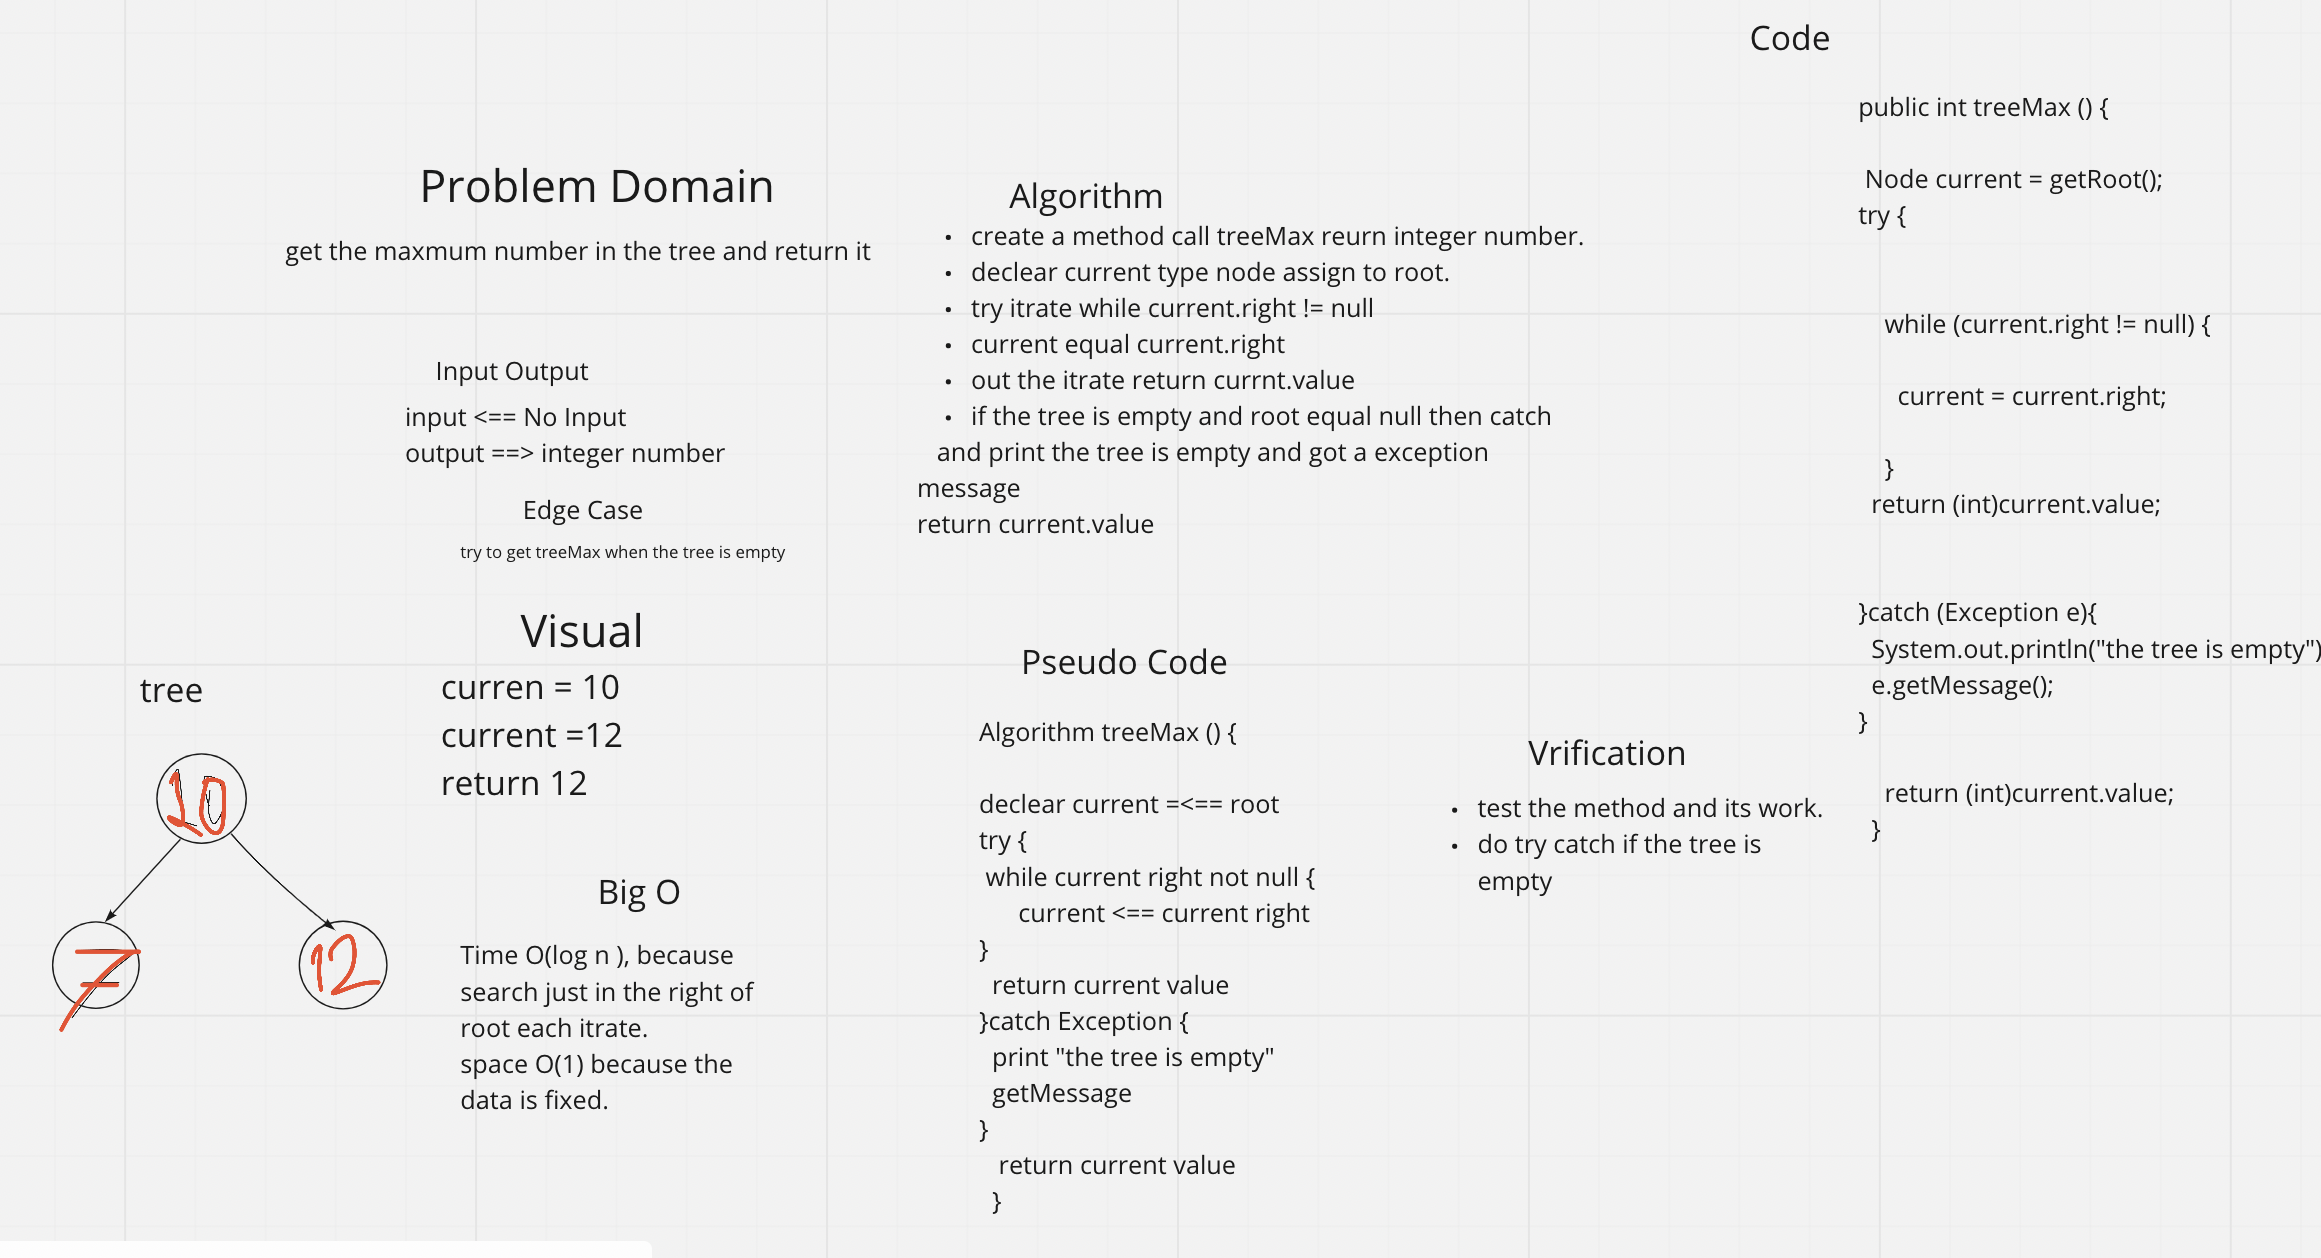
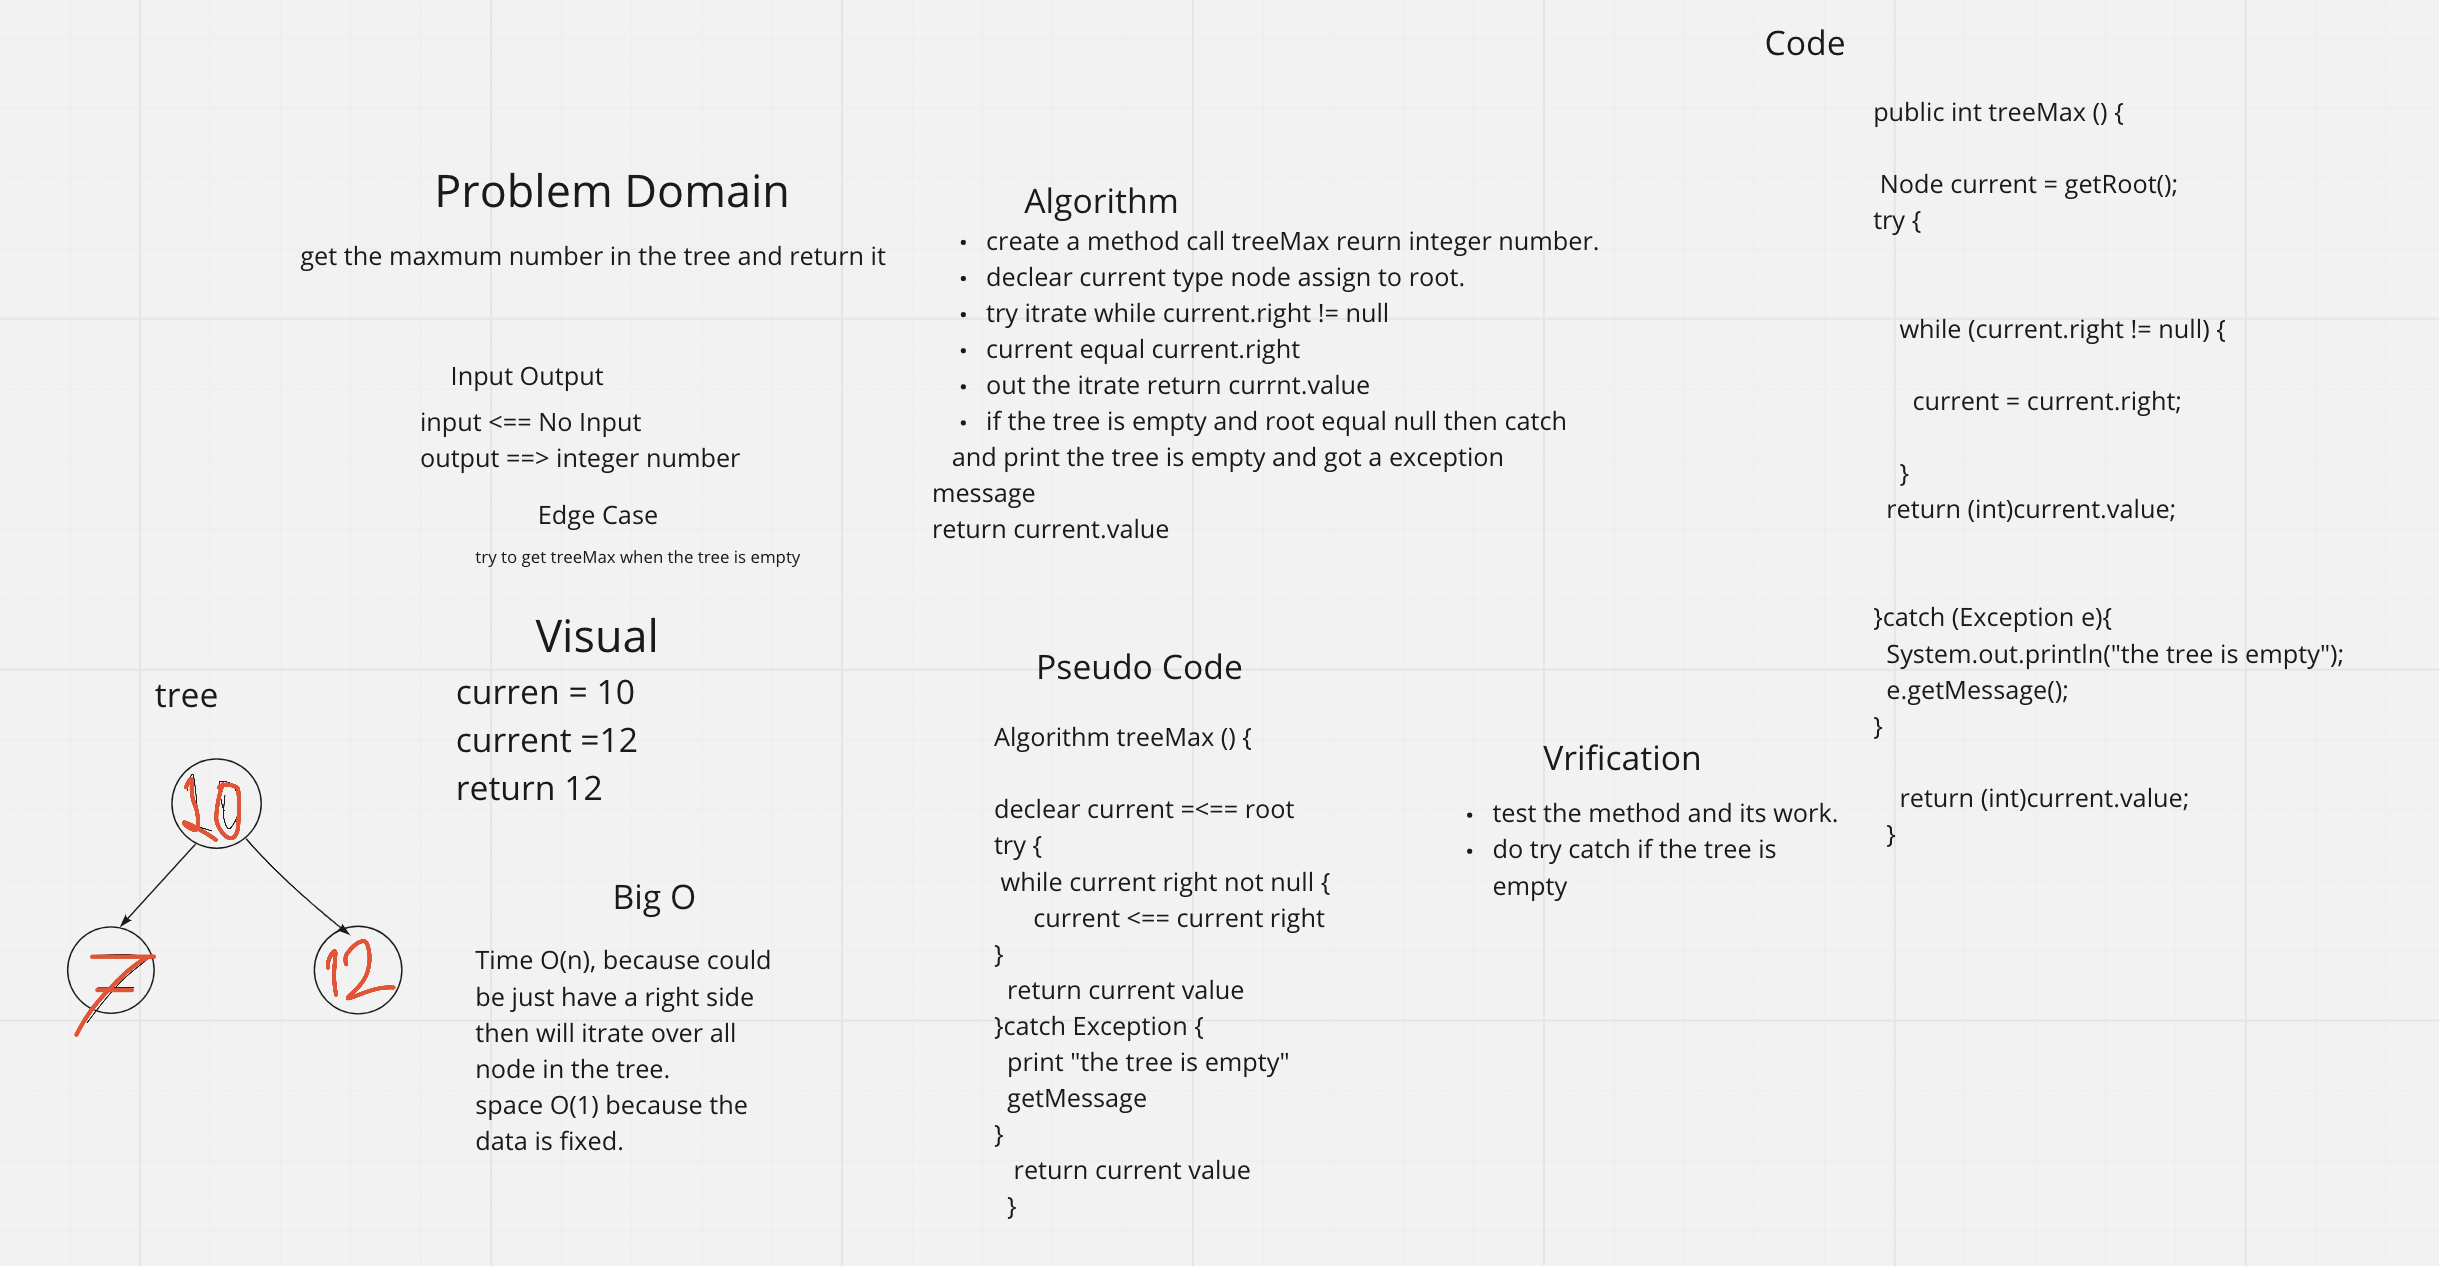
tree max

diff --git a/java/trees/README.md b/java/trees/README.md
@@ -10,24 +10,12 @@
 
 ![max-tree](max-tree.png)
 
+
 ## Approach & Efficiency
 can fet the maximum number even if the tree have just a root.
 have an Exception if the tree is empty
-Time Big O is O(1).
-Space Big O is O(1);
-
-Big O
-preOrder: time O(1) , Space O(n)
-inOrder: time O(1), Space O(n)
-postOrder: time O(1), Space O(n)
-add : time O(n), Space O(1)
-contains: time O(n), Space O(1)
-
-
+Time Big O is O(n).
+Space Big O is O(1).
 
 ## API
-preOrder: return an array list of value for tree as root => left => right
-inOrder: return an array list of value for tree as left » root » right
-postOrder: return an array list of value for tree as left » right » root
-add : accept value then add the value in the correct location in the binary search tree.
-contains: accept value and check if it exist will return true else false.
+maxTree: no input return integer number represent the maximum number in the tree.
